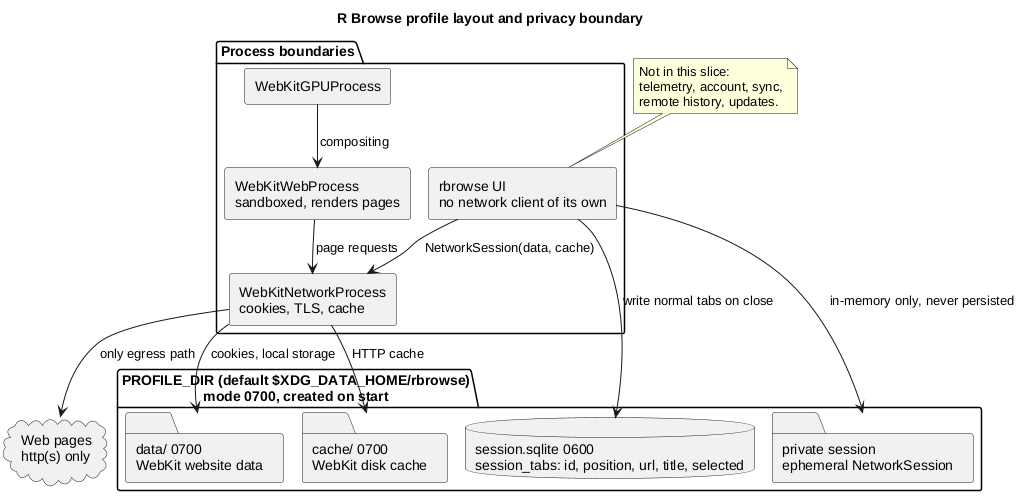
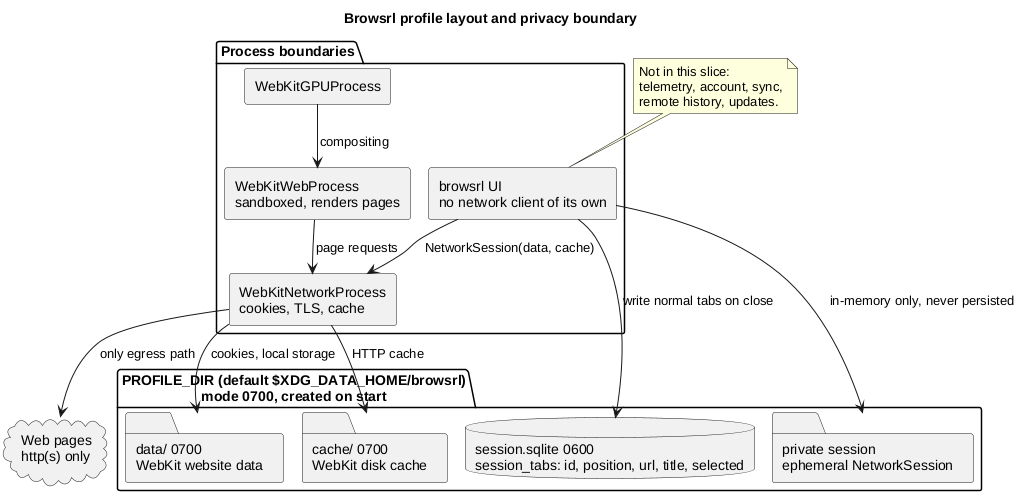
refactor: rename the project to browsrl
A rename, not a redesign: the code is unchanged apart from the strings that name
it. The mapping is mechanical and total, with the longer patterns replaced first
so the app ID could not be half-converted:

  io.github.rbrowse.RBrowse -> io.github.browsrl.Browsrl
  RBrowse                   -> Browsrl   (app-name element, display name)
  R Browse                  -> Browsrl   (prose)
  rbrowse                   -> browsrl   (package, binary, profile, icon)

What that changes in practice:

* the package and binary are `browsrl`, so the binary is target/debug/browsrl
  and --version and --help now say browsrl;
* the D-Bus name is io.github.browsrl.Browsrl, so the object path the GUI
  contract drives is /io/github/browsrl/Browsrl;
* the default profile moves to $XDG_DATA_HOME/browsrl, and private-tab
  downloads move to a browsrl-private-<pid> directory;
* the desktop entry, AppStream metadata and icon are renamed to match, and
  install/uninstall/dist paths follow the app ID and binary name;
* the harness temp prefixes become browsrl-e2e- and browsrl-gui-.

The profile path change is a clean break rather than a compatibility shim: the
project is 0.1.0, unpublished, and the old default profile held an empty
session_tabs table, so there is nothing to carry over.

Diagrams are re-rendered, since their titles carry the name. make verify is
green: fmt, clippy, check-core, build, 12 offline checks, packaging, diagrams.
[…]

diff --git a/tests/fixtures/one.html b/tests/fixtures/one.html
@@ -1,5 +1,5 @@
 <!doctype html>
 <html lang="en">
-  <head><meta charset="utf-8"><title>R Browse fixture one</title></head>
+  <head><meta charset="utf-8"><title>Browsrl fixture one</title></head>
   <body><main id="fixture">one</main></body>
 </html>

diff --git a/tests/fixtures/two.html b/tests/fixtures/two.html
@@ -1,5 +1,5 @@
 <!doctype html>
 <html lang="en">
-  <head><meta charset="utf-8"><title>R Browse fixture two</title></head>
+  <head><meta charset="utf-8"><title>Browsrl fixture two</title></head>
   <body><main id="fixture">two</main></body>
 </html>

diff --git a/tests/fixtures/index.html b/tests/fixtures/index.html
@@ -1,5 +1,5 @@
 <!doctype html>
 <html lang="en">
-  <head><meta charset="utf-8"><title>R Browse fixtures</title></head>
+  <head><meta charset="utf-8"><title>Browsrl fixtures</title></head>
   <body><p>Local-only fixture index.</p></body>
 </html>

diff --git a/src/gui.rs b/src/gui.rs
@@ -1,13 +1,13 @@
 //! GTK4/libadwaita/WebKitGTK shell: window, tab strip, and lazy page realization.
 
 use crate::library::{self, LibraryKind};
+use browsrl::{config::Config, downloads, navigation, readability, storage};
 use gtk4 as gtk;
 use gtk4::glib;
 use gtk4::glib::Propagation;
 use gtk4::prelude::*;
 use libadwaita as adw;
 use libadwaita::prelude::*;
-use rbrowse::{config::Config, downloads, navigation, readability, storage};
 use std::cell::{Cell, RefCell};
 use std::path::PathBuf;
 use std::rc::{Rc, Weak};
@@ -68,7 +68,7 @@ fn watch_one_download(download: &Download, download_dir: &std::path::Path) {
     });
 }
 
-pub const APPLICATION_ID: &str = "io.github.rbrowse.RBrowse";
+pub const APPLICATION_ID: &str = "io.github.browsrl.Browsrl";
 
 type PageRef = Rc<PageState>;
 type NetworkHandle = Rc<NetworkSession>;
@@ -598,16 +598,16 @@ pub fn run(config: Config) -> Result<(), String> {
             return;
         }
         if let Err(error) = build_window(application, activate_config.clone()) {
-            eprintln!("open R Browse window: {error}");
+            eprintln!("open Browsrl window: {error}");
             *error_slot.borrow_mut() = Some(error);
             application.quit();
         }
     });
-    // R Browse parses its own flags, so the GTK option parser only ever sees
+    // Browsrl parses its own flags, so the GTK option parser only ever sees
     // the program name; unknown-flag handling and exit codes stay ours.
     let program = std::env::args()
         .next()
-        .unwrap_or_else(|| "rbrowse".to_string());
+        .unwrap_or_else(|| "browsrl".to_string());
     application.run_with_args(&[program]);
     match startup_error.borrow_mut().take() {
         Some(error) => Err(error),
@@ -646,7 +646,7 @@ fn build_window(application: &adw::Application, config: Config) -> Result<(), St
 
     let window = adw::ApplicationWindow::builder()
         .application(application)
-        .title("R Browse")
+        .title("Browsrl")
         .default_width(1100)
         .default_height(760)
         .content(&root)
@@ -881,7 +881,7 @@ fn install_actions(application: &adw::Application, shell: &Shell) {
 /// It lives outside the profile, so a private download is never persisted with
 /// the browser's data, and it is removed when the window closes.
 fn private_download_dir() -> PathBuf {
-    let dir = std::env::temp_dir().join(format!("rbrowse-private-{}", std::process::id()));
+    let dir = std::env::temp_dir().join(format!("browsrl-private-{}", std::process::id()));
     // Best effort: if it cannot be created the download handler will refuse the
     // write rather than fall back to somewhere less private.
     let _ = std::fs::create_dir_all(&dir);

diff --git a/tests/e2e.py b/tests/e2e.py
@@ -1,5 +1,5 @@
 #!/usr/bin/env python3
-"""Deterministic, offline end-to-end contract for the first R Browse slice.
+"""Deterministic, offline end-to-end contract for the first Browsrl slice.
 
 Every check runs the real binary against loopback fixtures or explicit CLI
 input and asserts observable behaviour (exit code, JSON output, on-disk
@@ -281,8 +281,8 @@ def main() -> int:
     record(
         checks,
         "command_line_exit_codes",
-        help_result.stdout.startswith("Usage: rbrowse")
-        and version_result.stdout.strip() == "rbrowse 0.1.0"
+        help_result.stdout.startswith("Usage: browsrl")
+        and version_result.stdout.strip() == "browsrl 0.1.0"
         and unknown_result.stderr.startswith("unknown argument")
         and missing_value.stderr.strip() == "--profile-dir needs a path",
         {
@@ -303,7 +303,7 @@ def main() -> int:
     home = pathlib.Path.home()
     guard_cases = {
         "own_test_profile": [str(BINARY), "--profile-dir", str(temp / f"{PROFILE_PREFIX}abc")],
-        "personal_data_dir": [str(BINARY), "--profile-dir", str(home / ".local/share/rbrowse")],
+        "personal_data_dir": [str(BINARY), "--profile-dir", str(home / ".local/share/browsrl")],
         "prefix_nested_deeper": [
             str(BINARY),
             "--profile-dir",

diff --git a/src/config.rs b/src/config.rs
@@ -74,7 +74,7 @@ impl Config {
             return Err(CliError::usage("XDG_DATA_HOME must be an absolute path"));
         }
 
-        let default_profile = data_home.join("rbrowse");
+        let default_profile = data_home.join("browsrl");
         let mut profile_dir = None;
         let mut database_path = None;
         let mut data_dir = None;
@@ -138,7 +138,7 @@ impl Config {
                 "-h" | "--help" => return Err(CliError::success(usage())),
                 "-V" | "--version" => {
                     return Err(CliError::success(format!(
-                        "rbrowse {}",
+                        "browsrl {}",
                         env!("CARGO_PKG_VERSION")
                     )));
                 }
@@ -254,7 +254,7 @@ fn ensure_private_directory(path: &Path) -> Result<(), String> {
 
 pub fn usage() -> String {
     concat!(
-        "Usage: rbrowse [--profile-dir PATH] [--database-path PATH] [--data-dir PATH] ",
+        "Usage: browsrl [--profile-dir PATH] [--database-path PATH] [--data-dir PATH] ",
         "[--cache-dir PATH] [--download-dir PATH] [--start-url URL] ",
         "[--search-endpoint URL] [--no-restore] ",
         "[--smoke] [--storage-check]"

diff --git a/tests/gui.py b/tests/gui.py
@@ -1,5 +1,5 @@
 #!/usr/bin/env python3
-"""GUI contract for R Browse, driven through the window it really opens.
+"""GUI contract for Browsrl, driven through the window it really opens.
 
 WebKitGTK 6.0 cannot be driven by WebKitWebDriver, because a session needs the
 app to answer ``WebKitAutomationSession::create-web-view`` and the ``webkit6``
@@ -39,13 +39,13 @@ from harness import (
 
 
 REPORT = ROOT / "artifacts" / "e2e-gui" / "report.json"
-APPLICATION_ID = "io.github.rbrowse.RBrowse"
-OBJECT_PATH = "/io/github/rbrowse/RBrowse"
+APPLICATION_ID = "io.github.browsrl.Browsrl"
+OBJECT_PATH = "/io/github/browsrl/Browsrl"
 READY_SECONDS = 30
 
 # Names this harness's own log files, so they can be recognised and removed
 # without touching anything else in the temporary directory.
-LOG_PREFIX = "rbrowse-gui-"
+LOG_PREFIX = "browsrl-gui-"
 
 
 def have_wtype() -> bool:

diff --git a/src/main.rs b/src/main.rs
@@ -1,7 +1,7 @@
-//! R Browse entry point: argument handling, the offline smoke path, and the
+//! Browsrl entry point: argument handling, the offline smoke path, and the
 //! native shell hand-off.
 
-use rbrowse::{config::Config, downloads, navigation, storage};
+use browsrl::{config::Config, downloads, navigation, storage};
 use serde_json::json;
 
 #[cfg(feature = "webkit")]
@@ -40,14 +40,14 @@ fn main() {
 
     #[cfg(feature = "webkit")]
     if let Err(error) = gui::run(config) {
-        eprintln!("R Browse: {error}");
+        eprintln!("Browsrl: {error}");
         std::process::exit(1);
     }
 
     #[cfg(not(feature = "webkit"))]
     {
         let _ = &config;
-        eprintln!("R Browse was built without WebKit; use --smoke or --storage-check");
+        eprintln!("Browsrl was built without WebKit; use --smoke or --storage-check");
     }
 }
 

diff --git a/src/storage.rs b/src/storage.rs
@@ -293,12 +293,12 @@ fn is_allowed_url(value: &str) -> bool {
 }
 
 /// Turn a low-level SQLite failure into something a person can act on. The
-/// common one is a second process writing the same profile, which R Browse
+/// common one is a second process writing the same profile, which Browsrl
 /// does not support: the GUI is single-instance through GApplication.
 fn describe_open_error(path: &Path, message: &str) -> String {
     if message.contains("locked") || message.contains("busy") {
         return format!(
-            "session database {} is in use by another R Browse process; \
+            "session database {} is in use by another Browsrl process; \
              close it or use a different --profile-dir",
             path.display()
         );

diff --git a/src/library.rs b/src/library.rs
@@ -6,11 +6,11 @@
 //! opens it in the browsing window, so navigation still goes through the normal
 //! address policy.
 
+use browsrl::{bookmarks, history, storage};
 use gtk4 as gtk;
 use gtk4::prelude::*;
 use libadwaita as adw;
 use libadwaita::prelude::*;
-use rbrowse::{bookmarks, history, storage};
 use std::cell::RefCell;
 use std::rc::Rc;
 
@@ -55,7 +55,7 @@ pub fn open(
     // of stacking copies, and quitting tears it down.
     let window = adw::Window::builder()
         .application(application)
-        .title(format!("R Browse — {}", kind.title()))
+        .title(format!("Browsrl — {}", kind.title()))
         .default_width(560)
         .default_height(520)
         .build();

diff --git a/tests/harness.py b/tests/harness.py
@@ -16,7 +16,7 @@ from typing import Any
 
 ROOT = pathlib.Path(__file__).resolve().parents[1]
 FIXTURES = ROOT / "tests" / "fixtures"
-BINARY = ROOT / "target" / "debug" / "rbrowse"
+BINARY = ROOT / "target" / "debug" / "browsrl"
 TIMEOUT_SECONDS = 180
 
 
@@ -155,7 +155,7 @@ def read_database(path: pathlib.Path) -> dict[str, Any]:
 # Every profile this harness makes is a fresh directory directly under the
 # system temporary directory with this prefix. Cleanup keys off the same
 # constant, so a guard can never drift away from whatever created the profile.
-PROFILE_PREFIX = "rbrowse-e2e-"
+PROFILE_PREFIX = "browsrl-e2e-"
 
 
 def temporary_profile() -> tempfile.TemporaryDirectory[str]:

diff --git a/src/lib.rs b/src/lib.rs
@@ -1,4 +1,4 @@
-//! Dependency-light core of R Browse: configuration, the navigation boundary,
+//! Dependency-light core of Browsrl: configuration, the navigation boundary,
 //! and the local session store. The GTK/libadwaita/WebKit shell lives in the
 //! binary so the core can be exercised head-less by the smoke path.
 
